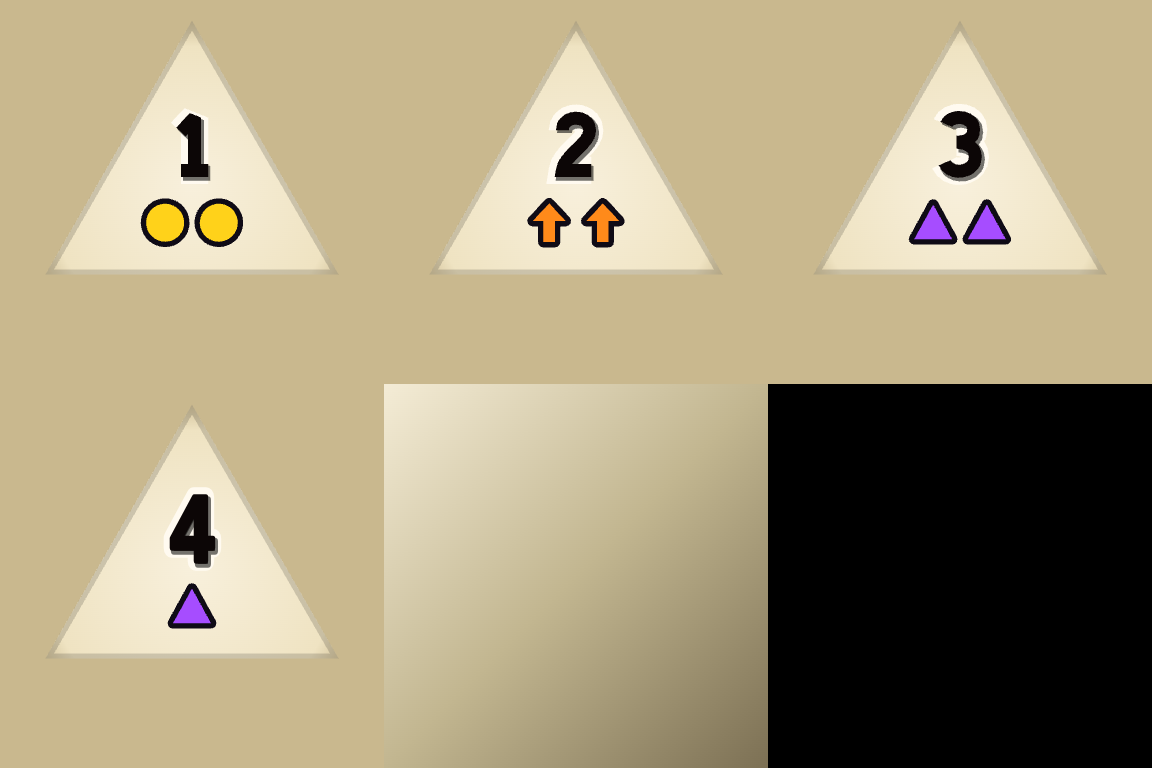
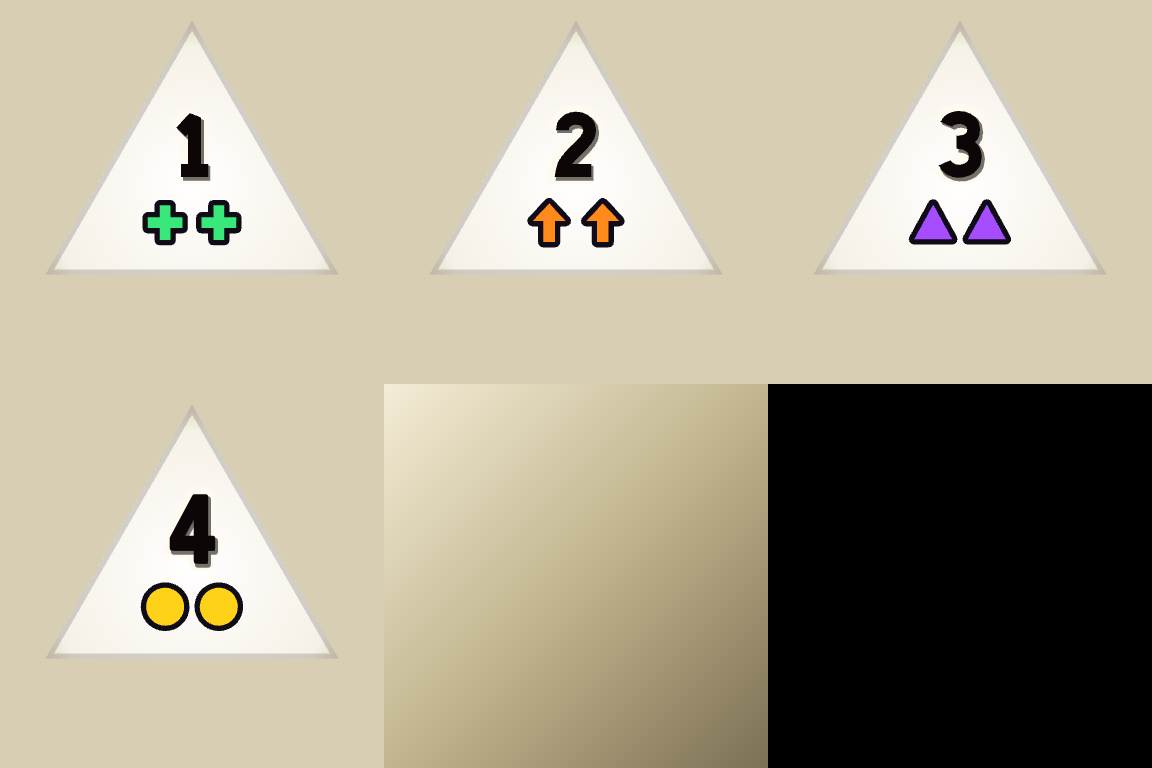
Faces 5-8 repeat heal/pierce/magic/gold at 3; 9 = 2 heal + 2 pierce; 10 = 2 magic + 2 gold (FACE_PAY)
Claude-Session: https://claude.ai/code/session_01DujDBar2Jc6ufUDBkRgkDu

diff --git a/index.html b/index.html
@@ -5,7 +5,7 @@
   <meta name="viewport" content="width=device-width, initial-scale=1, viewport-fit=cover">
   <meta name="theme-color" content="#04060d">
   <title>QuestDice</title>
-  <script type="importmap">{"imports":{"three":"./vendor/three/build/three.module.js","three/addons/":"./vendor/three/examples/jsm/","./js/auction.js":"./js/auction.js?v=20261006t","./js/audio.js":"./js/audio.js?v=20261006t","./js/coach.js":"./js/coach.js?v=20261006t","./js/data.js":"./js/data.js?v=20261006t","./js/die3d.js":"./js/die3d.js?v=20261006t","./js/dom.js":"./js/dom.js?v=20261006t","./js/engine.js":"./js/engine.js?v=20261006t","./js/fx.js":"./js/fx.js?v=20261006t","./js/g3/battle3d.js":"./js/g3/battle3d.js?v=20261006t","./js/g3/director.js":"./js/g3/director.js?v=20261006t","./js/g3/hudkit.js":"./js/g3/hudkit.js?v=20261006t","./js/g3/icons.js":"./js/g3/icons.js?v=20261006t","./js/g3/portrait.js":"./js/g3/portrait.js?v=20261006t","./js/g3/screens.js":"./js/g3/screens.js?v=20261006t","./js/g3/scrui.js":"./js/g3/scrui.js?v=20261006t","./js/g3/stubs.js":"./js/g3/stubs.js?v=20261006t","./js/g3/world.js":"./js/g3/world.js?v=20261006t","./js/gfx/actors/base.js":"./js/gfx/actors/base.js?v=20261006t","./js/gfx/actors/common.js":"./js/gfx/actors/common.js?v=20261006t","./js/gfx/actors/cultist.js":"./js/gfx/actors/cultist.js?v=20261006t","./js/gfx/actors/goblin.js":"./js/gfx/actors/goblin.js?v=20261006t","./js/gfx/actors/goblinking.js":"./js/gfx/actors/goblinking.js?v=20261006t","./js/gfx/actors/hero.js":"./js/gfx/actors/hero.js?v=20261006t","./js/gfx/actors/heroclips.js":"./js/gfx/actors/heroclips.js?v=20261006t","./js/gfx/actors/herocloth.js":"./js/gfx/actors/herocloth.js?v=20261006t","./js/gfx/actors/herokit.js":"./js/gfx/actors/herokit.js?v=20261006t","./js/gfx/actors/index.js":"./js/gfx/actors/index.js?v=20261006t","./js/gfx/actors/ogre.js":"./js/gfx/actors/ogre.js?v=20261006t","./js/gfx/actors/parts.js":"./js/gfx/actors/parts.js?v=20261006t","./js/gfx/actors/parts2.js":"./js/gfx/actors/parts2.js?v=20261006t","./js/gfx/actors/wolf.js":"./js/gfx/actors/wolf.js?v=20261006t","./js/gfx/arena.js":"./js/gfx/arena.js?v=20261006t","./js/gfx/arena/common.js":"./js/gfx/arena/common.js?v=20261006t","./js/gfx/arena/flora.js":"./js/gfx/arena/flora.js?v=20261006t","./js/gfx/arena/fx.js":"./js/gfx/arena/fx.js?v=20261006t","./js/gfx/arena/ground.js":"./js/gfx/arena/ground.js?v=20261006t","./js/gfx/arena/helpers.js":"./js/gfx/arena/helpers.js?v=20261006t","./js/gfx/arena/kit.js":"./js/gfx/arena/kit.js?v=20261006t","./js/gfx/arena/places1.js":"./js/gfx/arena/places1.js?v=20261006t","./js/gfx/arena/places2.js":"./js/gfx/arena/places2.js?v=20261006t","./js/gfx/arena/props.js":"./js/gfx/arena/props.js?v=20261006t","./js/gfx/arena/sky.js":"./js/gfx/arena/sky.js?v=20261006t","./js/gfx/arena/tex.js":"./js/gfx/arena/tex.js?v=20261006t","./js/gfx/core.js":"./js/gfx/core.js?v=20261006t","./js/gfx/demo/actor.js":"./js/gfx/demo/actor.js?v=20261006t","./js/gfx/demo/arena.js":"./js/gfx/demo/arena.js?v=20261006t","./js/gfx/demo/dicegallery.js":"./js/gfx/demo/dicegallery.js?v=20261006t","./js/gfx/demo/dicelab.js":"./js/gfx/demo/dicelab.js?v=20261006t","./js/gfx/demo/materials.js":"./js/gfx/demo/materials.js?v=20261006t","./js/gfx/demo/tray.js":"./js/gfx/demo/tray.js?v=20261006t","./js/gfx/demo/vfx.js":"./js/gfx/demo/vfx.js?v=20261006t","./js/gfx/demo/weapons.js":"./js/gfx/demo/weapons.js?v=20261006t","./js/gfx/dice/art.js":"./js/gfx/dice/art.js?v=20261006t","./js/gfx/dice/dice.js":"./js/gfx/dice/dice.js?v=20261006t","./js/gfx/dice/faces.js":"./js/gfx/dice/faces.js?v=20261006t","./js/gfx/dice/fx.js":"./js/gfx/dice/fx.js?v=20261006t","./js/gfx/dice/poly.js":"./js/gfx/dice/poly.js?v=20261006t","./js/gfx/dice/roll.js":"./js/gfx/dice/roll.js?v=20261006t","./js/gfx/dice/tray.js":"./js/gfx/dice/tray.js?v=20261006t","./js/gfx/env.js":"./js/gfx/env.js?v=20261006t","./js/gfx/mats.js":"./js/gfx/mats.js?v=20261006t","./js/gfx/noise.js":"./js/gfx/noise.js?v=20261006t","./js/gfx/particles.js":"./js/gfx/particles.js?v=20261006t","./js/gfx/post.js":"./js/gfx/post.js?v=20261006t","./js/gfx/rig.js":"./js/gfx/rig.js?v=20261006t","./js/gfx/tex.js":"./js/gfx/tex.js?v=20261006t","./js/gfx/util.js":"./js/gfx/util.js?v=20261006t","./js/gfx/vfx.js":"./js/gfx/vfx.js?v=20261006t","./js/gfx/vfx/quads.js":"./js/gfx/vfx/quads.js?v=20261006t","./js/gfx/vfx/shaders.js":"./js/gfx/vfx/shaders.js?v=20261006t","./js/gfx/vfx/strips.js":"./js/gfx/vfx/strips.js?v=20261006t","./js/gfx/vfx/text.js":"./js/gfx/vfx/text.js?v=20261006t","./js/gfx/vfx/textures.js":"./js/gfx/vfx/textures.js?v=20261006t","./js/gfx/weapons.js":"./js/gfx/weapons.js?v=20261006t","./js/main.js":"./js/main.js?v=20261006t","./js/mat.js":"./js/mat.js?v=20261006t","./js/net.js":"./js/net.js?v=20261006t","./js/roads.js":"./js/roads.js?v=20261006t","./js/roomui.js":"./js/roomui.js?v=20261006t","./js/save.js":"./js/save.js?v=20261006t","./js/table.js":"./js/table.js?v=20261006t","./js/ui.js":"./js/ui.js?v=20261006t","./js/view.js":"./js/view.js?v=20261006t"}}</script>
+  <script type="importmap">{"imports":{"three":"./vendor/three/build/three.module.js","three/addons/":"./vendor/three/examples/jsm/","./js/auction.js":"./js/auction.js?v=20261006u","./js/audio.js":"./js/audio.js?v=20261006u","./js/coach.js":"./js/coach.js?v=20261006u","./js/data.js":"./js/data.js?v=20261006u","./js/die3d.js":"./js/die3d.js?v=20261006u","./js/dom.js":"./js/dom.js?v=20261006u","./js/engine.js":"./js/engine.js?v=20261006u","./js/fx.js":"./js/fx.js?v=20261006u","./js/g3/battle3d.js":"./js/g3/battle3d.js?v=20261006u","./js/g3/director.js":"./js/g3/director.js?v=20261006u","./js/g3/hudkit.js":"./js/g3/hudkit.js?v=20261006u","./js/g3/icons.js":"./js/g3/icons.js?v=20261006u","./js/g3/portrait.js":"./js/g3/portrait.js?v=20261006u","./js/g3/screens.js":"./js/g3/screens.js?v=20261006u","./js/g3/scrui.js":"./js/g3/scrui.js?v=20261006u","./js/g3/stubs.js":"./js/g3/stubs.js?v=20261006u","./js/g3/world.js":"./js/g3/world.js?v=20261006u","./js/gfx/actors/base.js":"./js/gfx/actors/base.js?v=20261006u","./js/gfx/actors/common.js":"./js/gfx/actors/common.js?v=20261006u","./js/gfx/actors/cultist.js":"./js/gfx/actors/cultist.js?v=20261006u","./js/gfx/actors/goblin.js":"./js/gfx/actors/goblin.js?v=20261006u","./js/gfx/actors/goblinking.js":"./js/gfx/actors/goblinking.js?v=20261006u","./js/gfx/actors/hero.js":"./js/gfx/actors/hero.js?v=20261006u","./js/gfx/actors/heroclips.js":"./js/gfx/actors/heroclips.js?v=20261006u","./js/gfx/actors/herocloth.js":"./js/gfx/actors/herocloth.js?v=20261006u","./js/gfx/actors/herokit.js":"./js/gfx/actors/herokit.js?v=20261006u","./js/gfx/actors/index.js":"./js/gfx/actors/index.js?v=20261006u","./js/gfx/actors/ogre.js":"./js/gfx/actors/ogre.js?v=20261006u","./js/gfx/actors/parts.js":"./js/gfx/actors/parts.js?v=20261006u","./js/gfx/actors/parts2.js":"./js/gfx/actors/parts2.js?v=20261006u","./js/gfx/actors/wolf.js":"./js/gfx/actors/wolf.js?v=20261006u","./js/gfx/arena.js":"./js/gfx/arena.js?v=20261006u","./js/gfx/arena/common.js":"./js/gfx/arena/common.js?v=20261006u","./js/gfx/arena/flora.js":"./js/gfx/arena/flora.js?v=20261006u","./js/gfx/arena/fx.js":"./js/gfx/arena/fx.js?v=20261006u","./js/gfx/arena/ground.js":"./js/gfx/arena/ground.js?v=20261006u","./js/gfx/arena/helpers.js":"./js/gfx/arena/helpers.js?v=20261006u","./js/gfx/arena/kit.js":"./js/gfx/arena/kit.js?v=20261006u","./js/gfx/arena/places1.js":"./js/gfx/arena/places1.js?v=20261006u","./js/gfx/arena/places2.js":"./js/gfx/arena/places2.js?v=20261006u","./js/gfx/arena/props.js":"./js/gfx/arena/props.js?v=20261006u","./js/gfx/arena/sky.js":"./js/gfx/arena/sky.js?v=20261006u","./js/gfx/arena/tex.js":"./js/gfx/arena/tex.js?v=20261006u","./js/gfx/core.js":"./js/gfx/core.js?v=20261006u","./js/gfx/demo/actor.js":"./js/gfx/demo/actor.js?v=20261006u","./js/gfx/demo/arena.js":"./js/gfx/demo/arena.js?v=20261006u","./js/gfx/demo/dicegallery.js":"./js/gfx/demo/dicegallery.js?v=20261006u","./js/gfx/demo/dicelab.js":"./js/gfx/demo/dicelab.js?v=20261006u","./js/gfx/demo/materials.js":"./js/gfx/demo/materials.js?v=20261006u","./js/gfx/demo/tray.js":"./js/gfx/demo/tray.js?v=20261006u","./js/gfx/demo/vfx.js":"./js/gfx/demo/vfx.js?v=20261006u","./js/gfx/demo/weapons.js":"./js/gfx/demo/weapons.js?v=20261006u","./js/gfx/dice/art.js":"./js/gfx/dice/art.js?v=20261006u","./js/gfx/dice/dice.js":"./js/gfx/dice/dice.js?v=20261006u","./js/gfx/dice/faces.js":"./js/gfx/dice/faces.js?v=20261006u","./js/gfx/dice/fx.js":"./js/gfx/dice/fx.js?v=20261006u","./js/gfx/dice/poly.js":"./js/gfx/dice/poly.js?v=20261006u","./js/gfx/dice/roll.js":"./js/gfx/dice/roll.js?v=20261006u","./js/gfx/dice/tray.js":"./js/gfx/dice/tray.js?v=20261006u","./js/gfx/env.js":"./js/gfx/env.js?v=20261006u","./js/gfx/mats.js":"./js/gfx/mats.js?v=20261006u","./js/gfx/noise.js":"./js/gfx/noise.js?v=20261006u","./js/gfx/particles.js":"./js/gfx/particles.js?v=20261006u","./js/gfx/post.js":"./js/gfx/post.js?v=20261006u","./js/gfx/rig.js":"./js/gfx/rig.js?v=20261006u","./js/gfx/tex.js":"./js/gfx/tex.js?v=20261006u","./js/gfx/util.js":"./js/gfx/util.js?v=20261006u","./js/gfx/vfx.js":"./js/gfx/vfx.js?v=20261006u","./js/gfx/vfx/quads.js":"./js/gfx/vfx/quads.js?v=20261006u","./js/gfx/vfx/shaders.js":"./js/gfx/vfx/shaders.js?v=20261006u","./js/gfx/vfx/strips.js":"./js/gfx/vfx/strips.js?v=20261006u","./js/gfx/vfx/text.js":"./js/gfx/vfx/text.js?v=20261006u","./js/gfx/vfx/textures.js":"./js/gfx/vfx/textures.js?v=20261006u","./js/gfx/weapons.js":"./js/gfx/weapons.js?v=20261006u","./js/main.js":"./js/main.js?v=20261006u","./js/mat.js":"./js/mat.js?v=20261006u","./js/net.js":"./js/net.js?v=20261006u","./js/roads.js":"./js/roads.js?v=20261006u","./js/roomui.js":"./js/roomui.js?v=20261006u","./js/save.js":"./js/save.js?v=20261006u","./js/table.js":"./js/table.js?v=20261006u","./js/ui.js":"./js/ui.js?v=20261006u","./js/view.js":"./js/view.js?v=20261006u"}}</script>
   <meta name="description" content="Roll your body. Break the dark. A fantasy dice campaign for one to six heroes, each on their own phone.">
   <meta property="og:title" content="QuestDice">
   <meta property="og:description" content="Roll your body. Break the dark.">
@@ -13,10 +13,10 @@
   <link rel="preconnect" href="https://fonts.googleapis.com">
   <link rel="preconnect" href="https://fonts.gstatic.com" crossorigin>
   <link href="https://fonts.googleapis.com/css2?family=Archivo+Black&family=Cormorant+Garamond:ital,wght@0,500;0,600;1,500&family=Inter:wght@400;500;600;700&family=Oxanium:wght@500;600;700;800&display=swap" rel="stylesheet">
-  <link rel="stylesheet" href="css/style.css?v=20261006t">
-  <link rel="stylesheet" href="css/g3.css?v=20261006t">
-  <link rel="stylesheet" href="css/screens.css?v=20261006t">
-  <link rel="stylesheet" href="css/hud.css?v=20261006t">
+  <link rel="stylesheet" href="css/style.css?v=20261006u">
+  <link rel="stylesheet" href="css/g3.css?v=20261006u">
+  <link rel="stylesheet" href="css/screens.css?v=20261006u">
+  <link rel="stylesheet" href="css/hud.css?v=20261006u">
 </head>
 <body>
   <div class="app-frame">
@@ -32,6 +32,6 @@
   <div id="toast" role="status"></div>
   <div id="modal"></div>
   <noscript><p style="padding:2rem;color:#fff">QuestDice needs JavaScript.</p></noscript>
-  <script type="module" src="js/main.js?v=20261006t"></script>
+  <script type="module" src="js/main.js?v=20261006u"></script>
 </body>
 </html>

diff --git a/js/view.js b/js/view.js
@@ -32,12 +32,14 @@ export function dieSpec(hero, slot, v) {
     else if (v === 5) { chip = '🛡 +4'; chipKind = 'c-block'; } else { chip = '⚔ +4'; chipKind = 'c-atk'; }
     return { main: String(v), tone: 'heart', chip, chipKind, blank: false };
   }
-  const r = D.RES_BY_SIZE[role === 'hand' ? hero.strength[slot] : role === 'feet' ? E.feetSize(hero) : 4];
-  if (v === 1) { chip = `✚ +${r[0]}`; chipKind = 'c-heal'; } else if (v === 2) { chip = `◆ +${r[1]}`; chipKind = 'c-pierce'; }
-  else if (v === 3) { chip = `✦ +${r[2]}`; chipKind = 'c-magic'; } else if (v === 4) { chip = `🪙 +${r[3]}`; chipKind = 'c-gold'; }
+  chip = payChip(v); chipKind = payKind(v);
   return { main: String(v), tone: '', chip, chipKind, blank: false };
 }
 
+const PAY_ICON = { heal: '✚', pierce: '◆', magic: '✦', gold: '🪙' };
+const payWords = (v) => { const p = D.FACE_PAY[v]; return p ? Object.entries(p).map(([k, n]) => `${PAY_ICON[k]} ${n} ${k}`).join(' + ') : ''; };
+const payChip = (v) => { const p = D.FACE_PAY[v]; return p ? Object.entries(p).map(([k, n]) => `${PAY_ICON[k]}${n}`).join(' ') : ''; };
+const payKind = (v) => { const p = D.FACE_PAY[v]; const k = p && Object.keys(p)[0]; return k ? `c-${k}` : ''; };
 export function paintDie(el, hero, slot, v) {
   const s = dieSpec(hero, slot, v);
   el.querySelector('.num').textContent = s.main;
@@ -81,9 +83,8 @@ export function describeDie(hero, slot, v) {
     const t = ['Every 1 on your head, hands and feet heals +2 more.', 'Every 2 on your head, hands and feet pierces +2 more.', 'Every 3 on your head, hands and feet gives +2 ✦ more.', 'Every 4 on your head, hands and feet gives +2 🪙 more.', 'Each BLUE weapon lane gets +4 block.', 'Each RED weapon lane gets +4 attack.'][v - 1];
     return `Heart (d6) shows ${v}. ${t}`;
   }
-  const r = D.RES_BY_SIZE[role === 'hand' ? hero.strength[slot] : role === 'feet' ? E.feetSize(hero) : 4];
   const base = role === 'hand' ? `${name} · Strength ${v}: adds ${v} to its lane. ` : `${name} (d4) shows ${v}. `;
-  const eff = v === 1 ? `1 → heal ${r[0]} ✚.` : v === 2 ? `2 → +${r[1]} ◆ pierce.` : v === 3 ? `3 → +${r[2]} ✦ magic.` : v === 4 ? `4 → +${r[3]} 🪙 gold.` : 'High numbers are pure power.';
+  const eff = payWords(v) ? `${v} → ${payWords(v)}.` : 'High numbers are pure power.';
   const ini = role === 'feet' ? ` It is also your initiative (${v}): each round every monster rolls its own die, a higher roll strikes first, ties go to you. Round 1 is always yours.` : '';
   return base + eff + ini;
 }

diff --git a/js/engine.js b/js/engine.js
@@ -3,7 +3,7 @@
 
 import {
   ROLE, LANES, CARDINALS, MAGIC_CAP, MAX_LEVEL, SYNERGY_BONUS, HEAL_COST,
-  HEAL_AMOUNT, NUDGE_COST, RECHARGE_COST, START_MAGIC, REROLL_DICE, RES_BY_SIZE, SPEED_STEPS, HEART_AMP, HEART_COLOR_BONUS,
+  HEAL_AMOUNT, NUDGE_COST, RECHARGE_COST, START_MAGIC, REROLL_DICE, RES_BY_SIZE, FACE_PAY, SPEED_STEPS, HEART_AMP, HEART_COLOR_BONUS,
   STRAIGHT, RARITY_WEIGHTS, RARITY_SELL, WEAPONS, LOOT_WEIGHTS, START_DICE, UNLOCK_COST, DIFFICULTY, TALENT_SYMS, TALENT_MAX_SAME, POWER_UPGRADE, TALENT_PER_FACE, TALENT_SLOT_COST, TALENT_FACES, CLASS_TALENT, RULES, STRENGTH_STEPS,
   SPECIAL_STEPS, NEXT_SIZE, xpToNext, CLASSES, PERKS, MONSTERS, ACTS, QUESTS_PER_ACT, ELITE_STEPS,
   PARTY, ENEMY_CAP, FORGE_COST, WEAPON_SIZE_STEPS,
@@ -169,15 +169,11 @@ export function evaluate(hero, board, opts = {}) {
     init: val('S'), atk: 0, block: 0, pierce: 0, heal: 0, magic: 0, gold: 0, stagger: 0,
     lanes: {}, offense3: false, defense3: false, straight: 0, straightBonus: 0, notes: [],
   };
-  const res = (slot) => RES_BY_SIZE[ROLE[slot] === 'hand' ? hero.strength[slot] : ROLE[slot] === 'feet' ? feetSize(hero) : 4];
 
-  // Universal number language on head, hands and feet: 1 = heal, 2 = pierce, 3 = magic, 4 = gold (RES_BY_SIZE each).
+  // Universal number language on head, hands and feet: FACE_PAY[v] (1 heal, 2 pierce, 3 magic, 4 gold at 2; 5-8 at 3; 9 and 10 pay two kinds).
   for (const s of PAYERS) {
-    const v = val(s); const r = res(s);
-    if (v === 1) out.heal += r[0];
-    else if (v === 2) { out.pierce += r[1] + mods.pierceBonus; }
-    else if (v === 3) out.magic += r[2];
-    else if (v === 4) out.gold += r[3];
+    const pay = FACE_PAY[val(s)]; if (!pay) continue;
+    out.heal += pay.heal || 0; out.pierce += (pay.pierce || 0) + (pay.pierce ? mods.pierceBonus : 0); out.magic += pay.magic || 0; out.gold += pay.gold || 0;
   }
   // Heart 1-4: +2 more of the same for every matching 1 / 2 / 3 / 4 on head, hands and feet. Heart 5/6 are handled with the lanes.
   const hv = val('C');

diff --git a/js/data.js b/js/data.js
@@ -28,9 +28,13 @@ export const HEAL_AMOUNT = 4; // hp  (1 magic = 2 hp)
 export const NUDGE_COST = 3; // turning the heart die is a special, pricey act
 export const RECHARGE_COST = 3;
 
-// Universal number language on head, hands and feet: face 1 = heal, 2 = pierce, 3 = magic, 4 = gold, 2 each on every die size.
-// Faces above 4 (the bigger dice) carry no symbol: they are pure number (strength, initiative).
-export const RES_BY_SIZE = { 4: [2, 2, 2, 2], 6: [2, 2, 2, 2], 8: [2, 2, 2, 2], 10: [2, 2, 2, 2] };
+// Universal number language on head, hands and feet (see FACE_PAY): 1 heal, 2 pierce, 3 magic, 4 gold at 2 each; 5-8 repeat the pattern at 3; 9 = 2 heal + 2 pierce; 10 = 2 magic + 2 gold.
+export const RES_BY_SIZE = { 4: [2, 2, 2, 2], 6: [2, 2, 2, 2], 8: [2, 2, 2, 2], 10: [2, 2, 2, 2] }; // faces 1-4 (kept for older callers)
+// What each face of a head / hand / feet die pays. Same pattern all the way up: heal, pierce, magic, gold.
+export const FACE_PAY = [null,
+  { heal: 2 }, { pierce: 2 }, { magic: 2 }, { gold: 2 },        // 1-4: the same on every die
+  { heal: 3 }, { pierce: 3 }, { magic: 3 }, { gold: 3 },        // 5-8: three of the symbol
+  { heal: 2, pierce: 2 }, { magic: 2, gold: 2 }];               // 9, 10: two kinds, two each
 // Heart amplifier: +2 per matching head / hand / feet die. Faces 1-4 (heal, pierce, magic, gold).
 export const HEART_AMP = [2, 2, 2, 2];
 export const HEART_COLOR_BONUS = 4; // face 5: +4 block on each blue weapon, face 6: +4 attack on each red weapon

diff --git a/js/gfx/dice/dice.js b/js/gfx/dice/dice.js
@@ -46,11 +46,10 @@ export function dieSpecs(hero) {
       for (let v = 1; v <= 6; v++) labels.push({ text: String(v), pip: v <= 4 ? PIP_BY_NUM[v] : null, tone: v === 5 ? 'b' : v === 6 ? 'r' : '', mark: v === 5 ? 'block' : v === 6 ? 'atk' : null });
     } else {
       theme = 'bone'; // head, hands and feet are all the same white die
-      // what the face pays is what it shows: one symbol per point of gold / pierce / magic
-      const size = role === 'hand' ? hero.strength[slot] : role === 'feet' ? E.feetSize(hero) : 4;
+      // what the face pays is what it shows: one symbol per point of heal / pierce / magic / gold (D.FACE_PAY)
       for (let v = 1; v <= sides; v++) {
-        const pip = PIP_BY_NUM[v] || null; const n = pip ? D.RES_BY_SIZE[size]?.[v - 1] || 1 : 0;
-        labels.push({ text: String(v), pip, corners: pip ? Array(n).fill(pip) : undefined });
+        const pay = D.FACE_PAY[v]; const corners = []; for (const k of ['heal', 'pierce', 'magic', 'gold']) for (let i = 0; i < (pay?.[k] || 0); i++) corners.push(k);
+        labels.push({ text: String(v), pip: corners[0] || null, corners: corners.length ? corners : undefined });
       }
     }
     out[slot] = { slot, role, sides, theme, labels, key: `${theme}|${sides}|${JSON.stringify(labels)}` };

diff --git a/docs/PLAN.md b/docs/PLAN.md
@@ -240,3 +240,4 @@ procedural Three.js), what is good, the realistic ceiling, and a verdict. Write 
 - Phone battle UI: bottom bar is three equal buttons (Reroll "1 of 3" / "Magic reroll 1 of 3 · 1✦ a die", Powers, Lock in); the pips row and the heart/heal mini buttons are gone. Heart turn, Heal and a new Big heal (6 magic → 10 HP once per battle, `E.healBig`) live in the Powers sheet as "Anytime" powers. Tapping a power opens a detail card (what it does, uses, cost, Use/Cancel) instead of casting. Monster plates are one slim strip. The tray is fit to the screen width (dice bleed edge to edge). `tools/stamp.mjs <version>` rewrites index.html's import map so every module is cache-busted: run it before each push that changes JS/CSS.
 - Phone battle layout v3: hero HP is a vertical thermometer on the left edge and magic a chip on the right (top bar removed); camera looks down at ~70 degrees (`fitTray` picks the elevation, only lowering it if the board would shrink); the altar frame may slide under the totals row; bottom bar = [Lock in square, left] [Magic powers] [big blue Roll/Reroll, right]. Powers library has Heart change (red heart) and a single Heal (6 magic, +10 HP, once per battle). Numeral 4 redrawn (open stem) so it no longer reads as an A. Tray decals for helmet/hands/boots redrawn.
 - NEW DICE LANGUAGE (user-defined): head, hands and feet are identical white dice. Face 1 = 2 heal, 2 = 2 pierce, 3 = 2 magic, 4 = 2 gold (faces 5+ on bigger dice carry no symbol). Heart 1-4 adds +2 of the same to every matching 1/2/3/4 on head+hands+feet; heart 5 = +4 block on EACH blue weapon lane, heart 6 = +4 attack on EACH red weapon lane. Balance (bots): Normal 97%, Hard 60% Act I clears. (RES_BY_SIZE all [2,2,2,2], HEART_AMP all 2.)
+- FACE_PAY (data.js) is the single table for head/hands/feet faces: 1-4 = 2 heal/pierce/magic/gold; 5-8 = 3 heal/pierce/magic/gold; 9 = 2 heal + 2 pierce; 10 = 2 magic + 2 gold. Dice art, totals and info text all read it.
